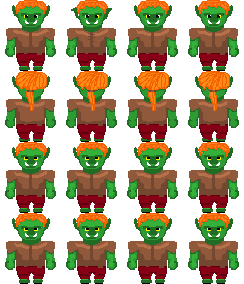
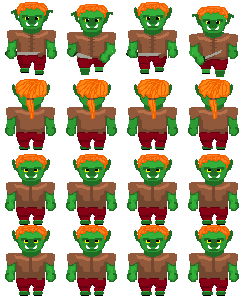
Orc's South Walk Animation complete

diff --git a/js/enemies/orc.js b/js/enemies/orc.js
@@ -18,7 +18,7 @@ function orcClass() {
   this.frameIndex = 0;
   this.width = 61;
   this.numberOfFrames = 6;
-  this.height = 71;
+  this.height = 75;
   this.ticksPerFrame = 5;
   this.shadowXOffset = 4;
   this.shadowYOffset = 56;
